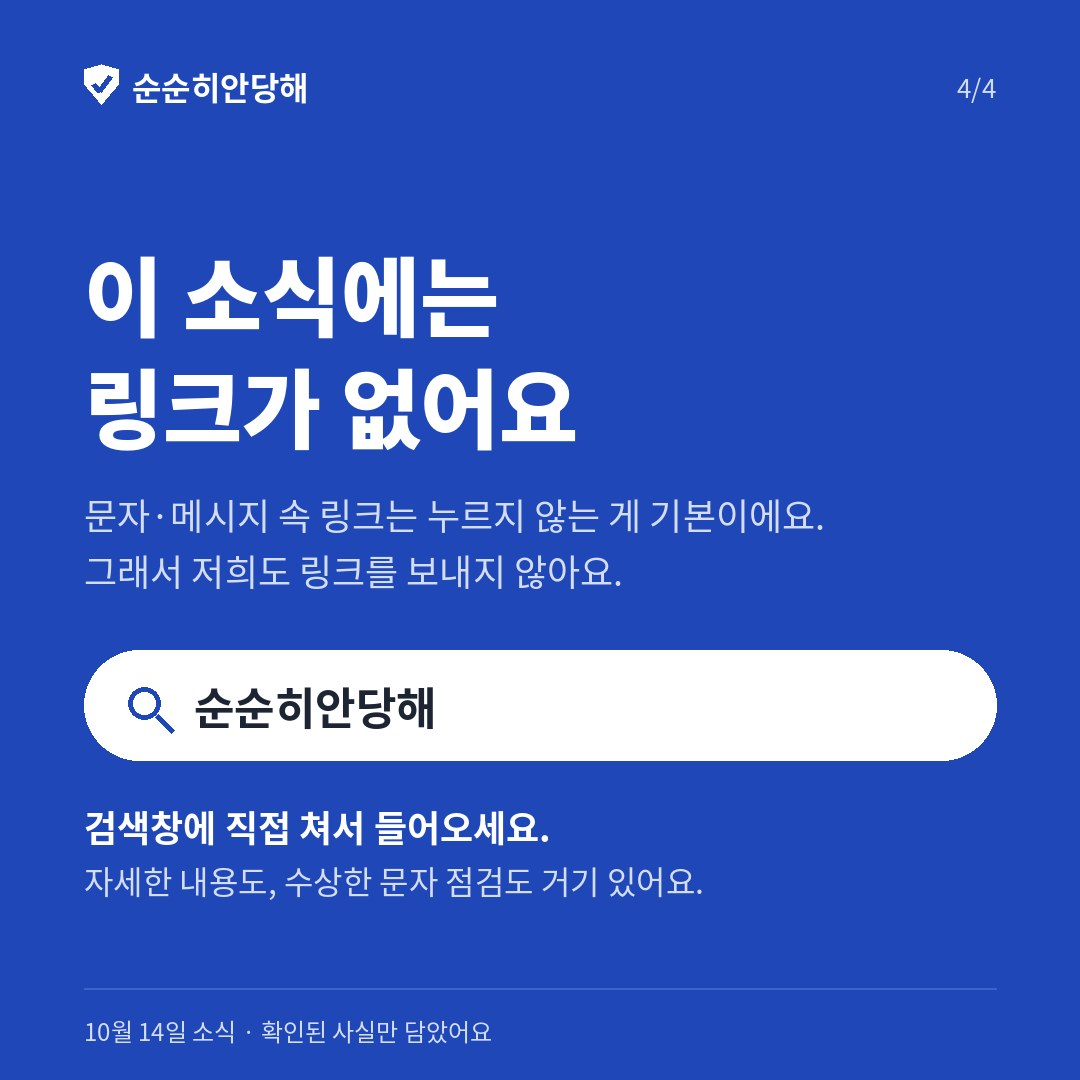
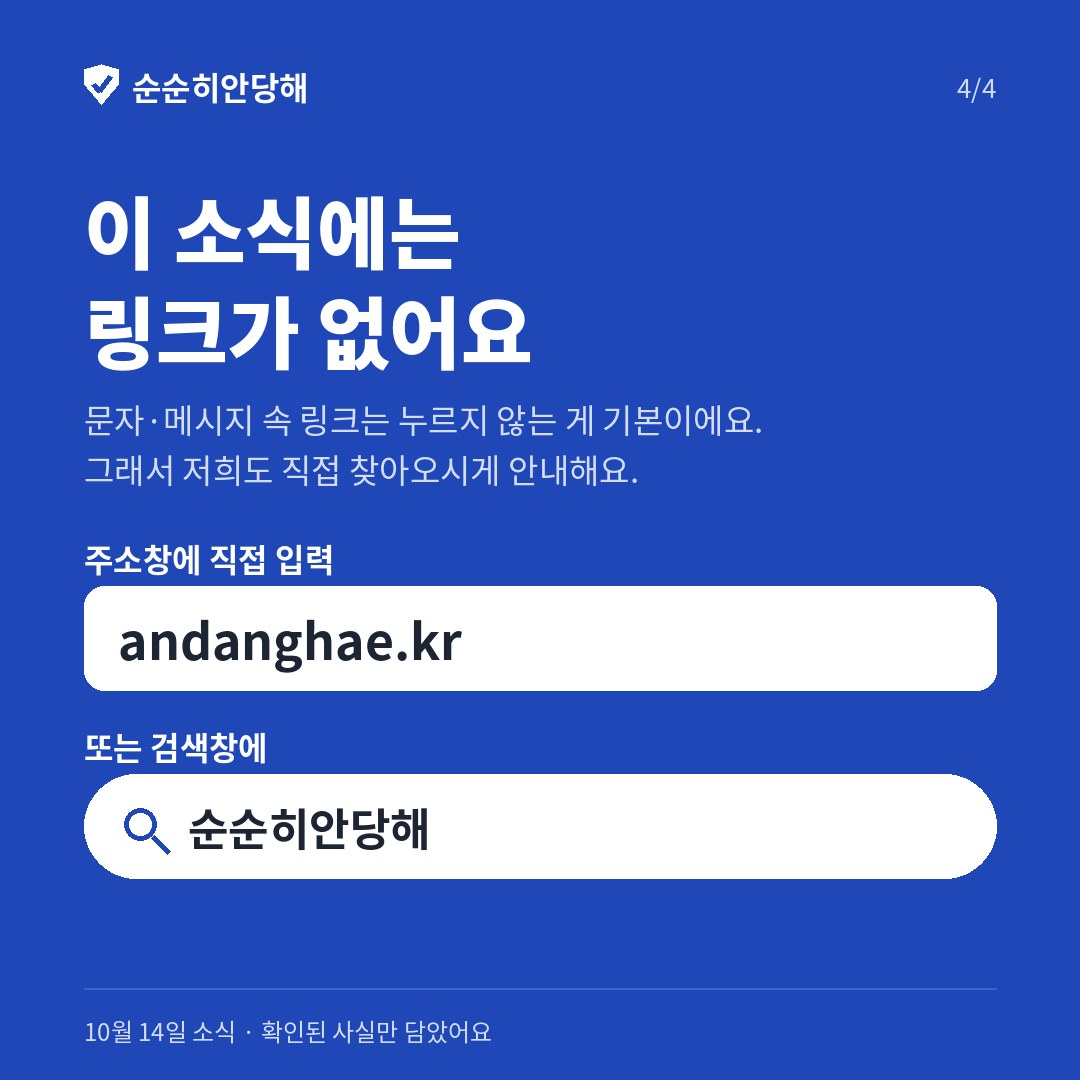
andanghae: card 4 shows typed-in address + search; post text update
Claude-Session: https://claude.ai/code/session_01NX3bhPew77XyQvSs8879SZ

Changed region(s): [[0.0611, 0.1833, 0.9472, 0.8556]]

diff --git a/andanghae/channel/adh-channel-20261014.html b/andanghae/channel/adh-channel-20261014.html
@@ -41,7 +41,7 @@ h2{font-size:16px;margin:0 0 8px}
 
 ▪ 모르는 돈이 들어오면 쓰거나 옮기지 말고 은행에 먼저 알리세요.
 
-이 소식에는 일부러 링크를 넣지 않았어요. 자세한 내용은 검색창에 &#x27;순순히안당해&#x27;를 직접 쳐서 들어와 보세요.</div>
+이 소식에는 일부러 링크를 넣지 않았어요. 사이트 주소는 마지막 카드에 있어요. 주소창에 직접 입력하거나 검색창에 &#x27;순순히안당해&#x27;를 쳐서 들어와 보세요.</div>
 <button class="btn" onclick="cp('b',this)">문구 복사</button></div>
 <p class="note">이 화면은 운영자 확인용이에요(검색에 나오지 않아요). 고칠 곳이 있으면 Claude 대화창에 "이번 주 카드 2장째 이렇게 바꿔줘"처럼 말하면 돼요. 올리지 않아도 괜찮아요.</p>
 </main>

diff --git a/andanghae/tools/make_channel_cards.py b/andanghae/tools/make_channel_cards.py
@@ -137,25 +137,31 @@ def items_card(page, head, items, date, kind):
 
 def end_card(date):
     img, d = base(4, date)
-    y = 230
+    y = 172
     for ln in ["이 소식에는", "링크가 없어요"]:
-        d.text((PAD, y), ln, font=f(86, "Black"), fill=ON)
-        y += 112
-    y += 34
-    for ln in ["문자·메시지 속 링크는 누르지 않는 게 기본이에요.", "그래서 저희도 링크를 보내지 않아요."]:
-        d.text((PAD, y), ln, font=f(36), fill=ON_SUB)
-        y += 56
-    y += 50
-    # 검색창 그림 (주소 대신 이름)
-    d.rounded_rectangle([PAD, y, W - PAD, y + 110], radius=55, fill=CARD)
-    cx, cy = PAD + 62, y + 55
+        d.text((PAD, y), ln, font=f(78, "Black"), fill=ON)
+        y += 100
+    y += 22
+    for ln in ["문자·메시지 속 링크는 누르지 않는 게 기본이에요.", "그래서 저희도 직접 찾아오시게 안내해요."]:
+        d.text((PAD, y), ln, font=f(33), fill=ON_SUB)
+        y += 50
+    y += 40
+    # 1) 주소창에 직접 입력 (그림 속 글자라 눌리지 않음)
+    d.text((PAD, y), "주소창에 직접 입력", font=f(32, "Bold"), fill=ON)
+    y += 52
+    d.rounded_rectangle([PAD, y, W - PAD, y + 104], radius=20, fill=CARD)
+    d.text((PAD + 34, y + 52), "andanghae.kr", font=f(50, "Bold"), fill=INK, anchor="lm")
+    y += 136
+    # 2) 또는 검색
+    d.text((PAD, y), "또는 검색창에", font=f(32, "Bold"), fill=ON)
+    y += 52
+    d.rounded_rectangle([PAD, y, W - PAD, y + 104], radius=52, fill=CARD)
+    cx, cy = PAD + 58, y + 52
     d.ellipse([cx - 18, cy - 18, cx + 14, cy + 14], outline=BG, width=5)
     d.line([(cx + 10, cy + 10), (cx + 26, cy + 26)], fill=BG, width=6)
-    d.text((PAD + 110, cy), "순순히안당해", font=f(44, "Bold"), fill=INK, anchor="lm")
-    y += 150
-    d.text((PAD, y), "검색창에 직접 쳐서 들어오세요.", font=f(36, "Bold"), fill=ON)
-    y += 56
-    d.text((PAD, y), "자세한 내용도, 수상한 문자 점검도 거기 있어요.", font=f(32), fill=ON_SUB)
+    d.text((PAD + 104, cy), "순순히안당해", font=f(44, "Bold"), fill=INK, anchor="lm")
+    if y + 104 > H - 100:
+        print("[경고] 4번 카드가 넘칩니다")
     return img
 
 
